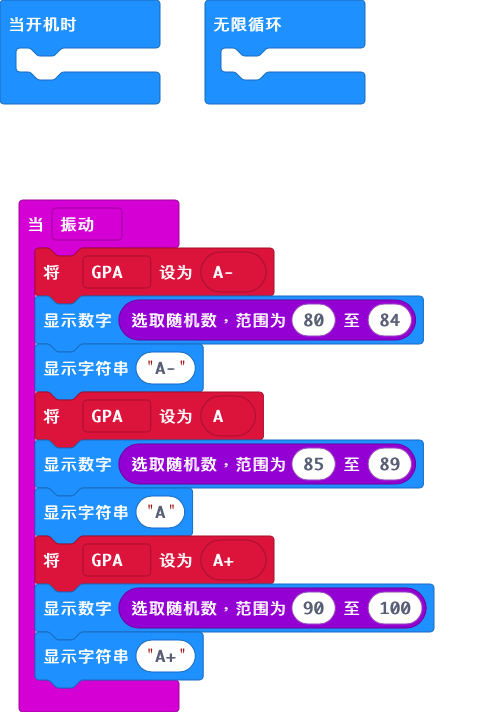
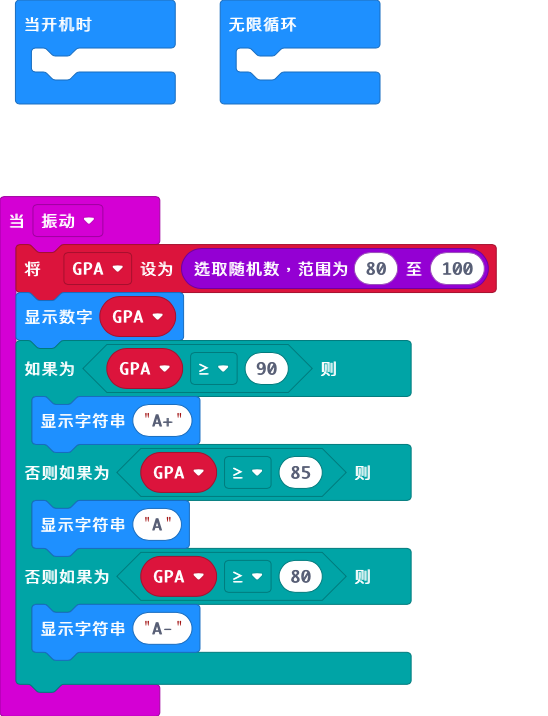
更新 main.blocks, main.ts

diff --git a/main.ts b/main.ts
@@ -1,17 +1,14 @@
 let GPA = 0
 input.onGesture(Gesture.Shake, function () {
-    let A3 = 0
-    let A2 = 0
-    let A = 0
-    GPA = A
-    basic.showNumber(randint(80, 84))
-    basic.showString("A-")
-    GPA = A2
-    basic.showNumber(randint(85, 89))
-    basic.showString("A")
-    GPA = A3
-    basic.showNumber(randint(90, 100))
-    basic.showString("A+")
+    GPA = randint(80, 100)
+    basic.showNumber(GPA)
+    if (GPA >= 90) {
+        basic.showString("A+")
+    } else if (GPA >= 85) {
+        basic.showString("A")
+    } else if (GPA >= 80) {
+        basic.showString("A-")
+    }
 })
 basic.forever(function () {
 	
